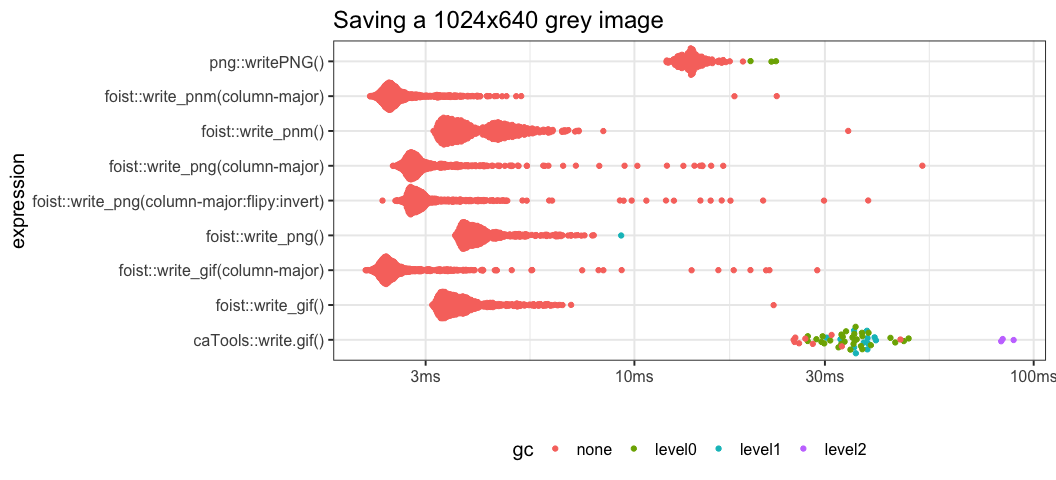
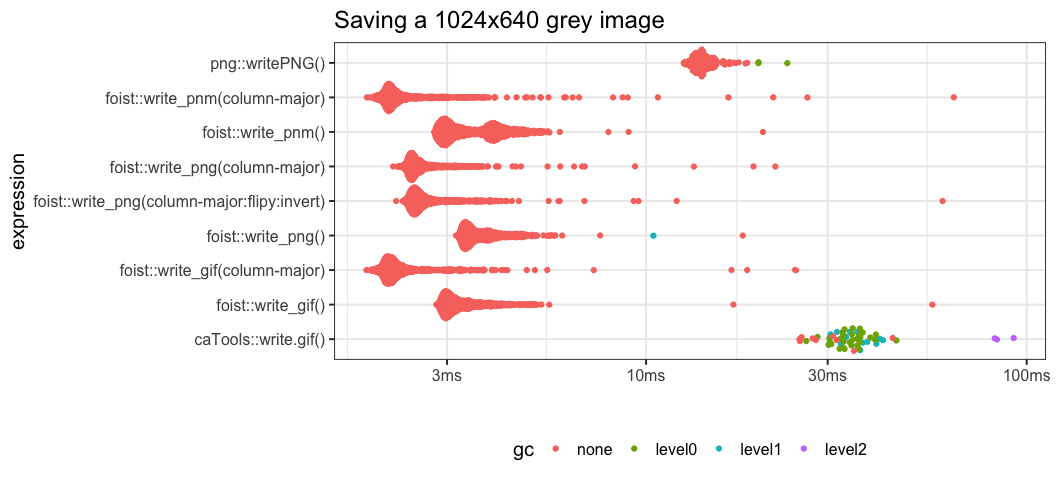
Update docs

diff --git a/README.md b/README.md
@@ -6,7 +6,7 @@
 <!-- badges: start -->
 
 ![](https://img.shields.io/badge/Status-alpha-orange.svg)
-![](https://img.shields.io/badge/Version-0.1.6-blue.svg) <br/>
+![](https://img.shields.io/badge/Version-0.1.7-blue.svg) <br/>
 ![](https://img.shields.io/badge/Output-PNG-green.svg)
 ![](https://img.shields.io/badge/Output-PGM-green.svg)
 ![](https://img.shields.io/badge/Output-PPM-green.svg)
@@ -140,8 +140,7 @@ grey image.
 
   - The matrix values must be in the range \[0, 1\].
   - Use the `intensity_factor` argument to scale image values on-the-fly
-    as they are written to
-file.
+    as they are written to file.
 
 <!-- end list -->
 
@@ -172,8 +171,7 @@ RGB image.
     to the third dimension of the array.
   - The matrix values must be in the range \[0, 1\].
   - Use the `intensity_factor` argument to scale image values on-the-fly
-    as they are written to
-file.
+    as they are written to file.
 
 <!-- end list -->
 
@@ -237,8 +235,7 @@ write_gif(dbl_mat, pal = vir$cividis, "man/figures/col-7.gif")  # GIF
 ## Manipulate palettes
 
 Some visual effects can be created by keeping the same data, but
-manipulating the palette of a sequence of image
-outputs.
+manipulating the palette of a sequence of image outputs.
 
 <div>
 
@@ -267,22 +264,23 @@ using:
   - `caTools::write.gif()`
 
 As can be seen in the benchmark using `flipy = TRUE` or `invert = TRUE`
-have almost no speed
-penalty.
+have almost no speed penalty.
 
-| expression                                   |     min |    mean |  median | itr/sec | mem\_alloc |
-| :------------------------------------------- | ------: | ------: | ------: | ------: | ---------: |
-| foist::write\_pnm()                          |  3.14ms |  4.27ms |  3.88ms |     234 |     2.49KB |
-| foist::write\_pnm(column-major)              |  2.18ms |  2.67ms |  2.48ms |     374 |     2.49KB |
-| foist::write\_gif()                          |  3.12ms |  3.85ms |  3.58ms |     260 |     2.49KB |
-| foist::write\_gif(column-major)              |  2.12ms |  2.77ms |  2.44ms |     361 |     2.49KB |
-| foist::write\_png()                          |  3.56ms |  4.26ms |     4ms |     234 |     2.49KB |
-| foist::write\_png(column-major)              |  2.48ms |  3.27ms |  2.84ms |     305 |     2.49KB |
-| foist::write\_png(column-major:flipy:invert) |  2.34ms |  3.32ms |  2.87ms |     301 |     2.49KB |
-| png::writePNG()                              | 12.04ms | 14.03ms | 13.91ms |      71 |   673.21KB |
-| caTools::write.gif()                         | 25.05ms | 29.64ms |  26.8ms |      34 |    35.18MB |
+| expression                                                                                     |     min |  median | itr/sec | mem\_alloc |
+| :--------------------------------------------------------------------------------------------- | ------: | ------: | ------: | ---------: |
+| foist::write\_pnm(dbl\_mat, tmp)                                                               |  2.77ms |  3.44ms |     274 |     2.49KB |
+| foist::write\_pnm(dbl\_mat, tmp, convert\_to\_row\_major = FALSE)                              |  1.85ms |  2.15ms |     398 |     2.49KB |
+| foist::write\_gif(dbl\_mat, tmp)                                                               |  2.81ms |  3.14ms |     291 |     2.49KB |
+| foist::write\_gif(dbl\_mat, tmp, convert\_to\_row\_major = FALSE)                              |  1.84ms |  2.16ms |     420 |     2.49KB |
+| foist::write\_png(dbl\_mat, tmp)                                                               |  3.17ms |  3.54ms |     265 |     2.49KB |
+| foist::write\_png(dbl\_mat, tmp, convert\_to\_row\_major = FALSE)                              |  2.17ms |  2.47ms |     373 |     2.49KB |
+| foist::write\_png(dbl\_mat, tmp, convert\_to\_row\_major = FALSE, flipy = TRUE, invert = TRUE) |  2.21ms |  2.52ms |     358 |     2.49KB |
+| png::writePNG(dbl\_mat, tmp)                                                                   | 12.56ms | 14.02ms |      70 |   670.84KB |
+| caTools::write.gif(dbl\_mat, tmp)                                                              |  25.3ms | 27.93ms |      33 |    35.17MB |
 
 Benchmark results
+
+    #> Loading required namespace: tidyr
 
 <img src="man/figures/README-benchmark_grey-1.png" width="100%" />
 
@@ -299,18 +297,17 @@ using:
     palette
   - `foist::write_gif()` saving a 2D matrix with an indexed colour
     palette
-  - `png::writePNG()` saving a 3D
-array
+  - `png::writePNG()` saving a 3D array
 
-| expression                        |     min |    mean |  median | itr/sec | mem\_alloc |
-| :-------------------------------- | ------: | ------: | ------: | ------: | ---------: |
-| foist::write\_pnm()               | 18.63ms | 22.07ms | 21.84ms |      45 |     2.49KB |
-| foist::write\_pnm(column-major)   |  5.42ms |  8.49ms |  6.15ms |     118 |     2.49KB |
-| foist::write\_png()               | 19.36ms |  22.3ms | 21.71ms |      45 |     2.49KB |
-| foist::write\_png(column-major)   |  6.52ms |  8.16ms |   7.3ms |     122 |     2.49KB |
-| foist::write\_png(indexed colour) |  2.48ms |   3.1ms |  2.79ms |     323 |     2.49KB |
-| foist::write\_gif(indexed colour) |   2.1ms |  2.65ms |  2.45ms |     378 |     2.49KB |
-| png::writePNG()                   | 45.44ms | 49.44ms | 49.26ms |      20 |     1.88MB |
+| expression                                                                                |     min |  median | itr/sec | mem\_alloc |
+| :---------------------------------------------------------------------------------------- | ------: | ------: | ------: | ---------: |
+| foist::write\_pnm(dbl\_arr, tmp)                                                          | 17.66ms | 19.67ms |      48 |     2.49KB |
+| foist::write\_pnm(dbl\_arr, tmp, convert\_to\_row\_major = FALSE)                         |  4.14ms |   5.2ms |     180 |     2.49KB |
+| foist::write\_png(dbl\_arr, tmp)                                                          | 18.65ms | 20.35ms |      49 |     2.49KB |
+| foist::write\_png(dbl\_arr, tmp, convert\_to\_row\_major = FALSE)                         |  5.79ms |  6.41ms |     143 |     2.49KB |
+| foist::write\_png(dbl\_mat, tmp, convert\_to\_row\_major = FALSE, pal = foist::vir$magma) |   2.2ms |  2.49ms |     357 |     2.49KB |
+| foist::write\_gif(dbl\_mat, tmp, convert\_to\_row\_major = FALSE, pal = foist::vir$magma) |  1.72ms |  2.17ms |     431 |     2.49KB |
+| png::writePNG(dbl\_arr, tmp)                                                              | 47.09ms | 50.22ms |      20 |     1.88MB |
 
 Benchmark results
 

diff --git a/NEWS.md b/NEWS.md
@@ -1,4 +1,8 @@
 
+# foist 0.1.7
+
+* Fix an error with writing the PNG header
+* Update package 'Suggests' for packages needed for testing
 
 # foist 0.1.6
 
